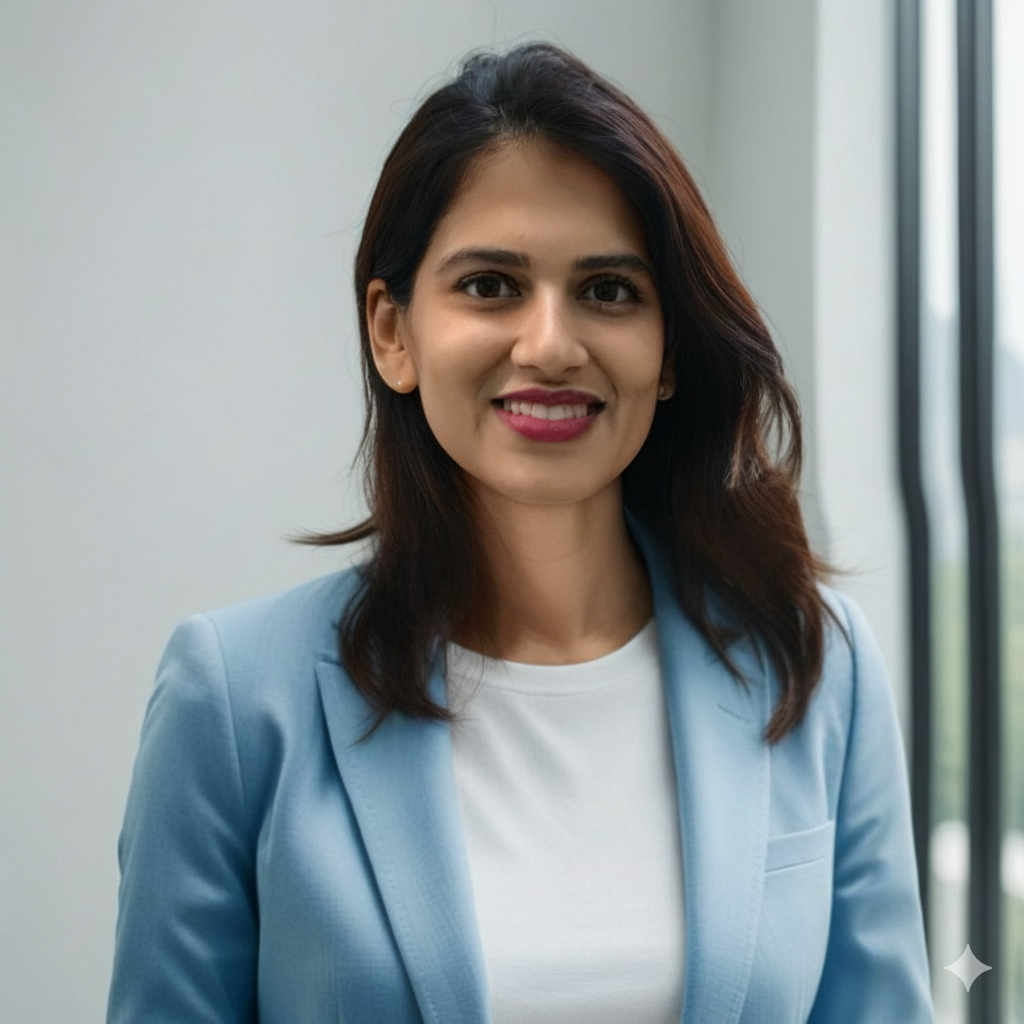
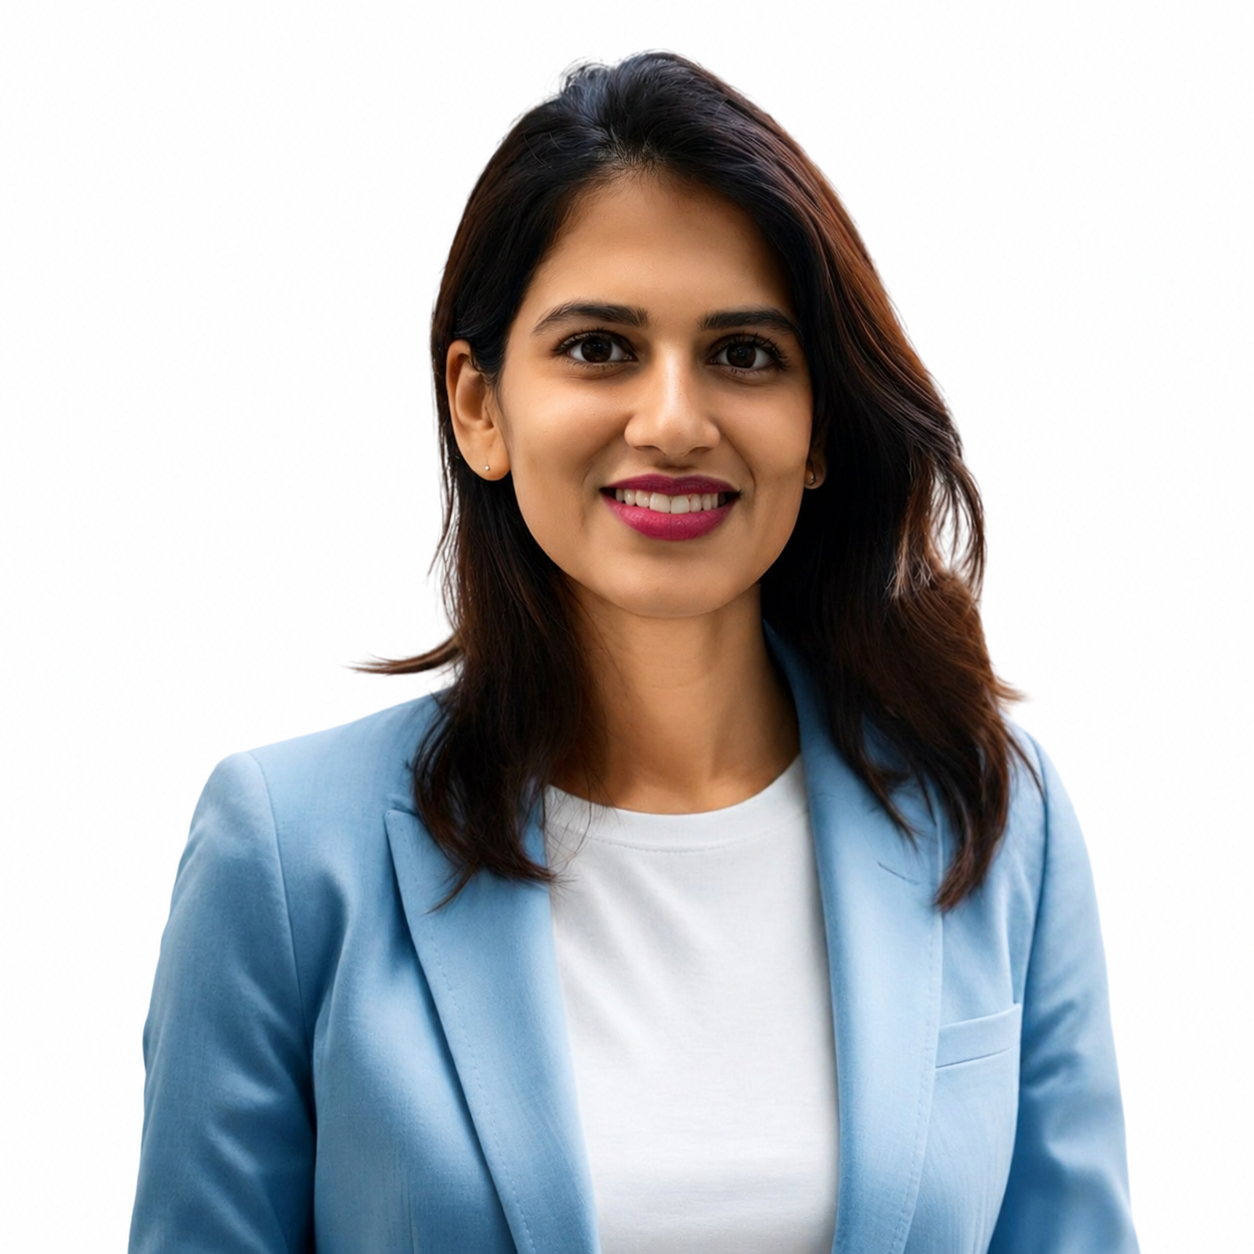
Changed gallery structure

diff --git a/src/pages/Gallery.jsx b/src/pages/Gallery.jsx
@@ -1,64 +1,11 @@
+import { Outlet } from "react-router-dom";
 import Heading from "../components/Heading";
-import LightGallery from "lightgallery/react";
-import "lightgallery/css/lightgallery.css";
-import "lightgallery/css/lg-zoom.css";
-import "lightgallery/css/lg-thumbnail.css";
-import lgThumbnail from "lightgallery/plugins/thumbnail";
-import lgZoom from "lightgallery/plugins/zoom";
-
-
-import img1 from "../assets/images/gallery/img1.jpeg"
-import img2 from "../assets/images/gallery/img2.JPG"
-import img3 from "../assets/images/gallery/img3.jpeg"
-import img4 from "../assets/images/gallery/img4.JPG"
-import img5 from "../assets/images/gallery/img5.jpeg"
-import img6 from "../assets/images/gallery/img6.JPG"
-import img7 from "../assets/images/gallery/img7.jpeg"
-import img8 from "../assets/images/gallery/img8.JPG"
-import img9 from "../assets/images/gallery/img9.jpeg"
-import img10 from "../assets/images/gallery/img10.JPG"
-import img11 from "../assets/images/gallery/img11.JPG"
-
-const images = [
-  { src: img1 },
-  { src: img2 },
-  { src: img3 },
-  { src: img4 },    
-  { src: img5 },
-  { src: img6 },
-  { src: img7 },
-  { src: img8 },
-  { src: img9 },
-  { src: img10 },
-  { src: img11 },
-]
 
 const Gallery = () => {
   return (
     <section>
       <Heading title="Gallery" path="/gallery" />
-      <div className="text-center px-4">
-        <h2 className="text-4xl font-bold text-[#8b1d1d] my-6 inline-block mx-auto border-b-4 border-[#8b1d1d] pb-3">
-          Ramdas Premier League
-        </h2>
-        <div className="p-[25px]">
-        <LightGallery
-          speed={500}
-          plugins={[lgThumbnail, lgZoom]}
-          getCaptionFromTitleOrAlt={false}
-          elementClassNames="grid  md:grid-cols-3 gap-2 md:gap-4"
-        >
-          {images.map((image, id) => (
-            <a href={image.src} key={id} className="group relative">
-              <img className="w-full h-[300px] object-cover" alt={`gallery-${id}`} src={image.src} loading="lazy" />
-              <div className="opacity-0 group-hover:opacity-100  flex items-center justify-center absolute inset-0 bg-[#0000009e] h-[40%] md:h-[25%] text-white text-[20px] transition-all duration-500">
-                Click Here
-              </div>
-            </a>
-          ))}
-        </LightGallery>
-      </div>
-      </div>
+     <Outlet />      
     </section>
   );
 };

diff --git a/src/pages/Rpl.jsx b/src/pages/Rpl.jsx
@@ -1,0 +1,53 @@
+import React from 'react'
+import LightGallery from "lightgallery/react";
+import "lightgallery/css/lightgallery.css";
+import "lightgallery/css/lg-zoom.css";
+import "lightgallery/css/lg-thumbnail.css";
+import lgThumbnail from "lightgallery/plugins/thumbnail";
+import lgZoom from "lightgallery/plugins/zoom";
+
+
+import img2 from "../assets/images/gallery/img2.JPG"
+import img4 from "../assets/images/gallery/img4.JPG"
+import img6 from "../assets/images/gallery/img6.JPG"
+import img8 from "../assets/images/gallery/img8.JPG"
+import img10 from "../assets/images/gallery/img10.JPG"
+import img11 from "../assets/images/gallery/img11.JPG"
+
+const images = [
+  { src: img2 },
+  { src: img4 },    
+  { src: img6 },
+  { src: img8 },
+  { src: img10 },
+  { src: img11 },
+]
+
+const Rpl = () => {
+  return (
+    <div className="text-center px-4">
+        <h2 className="text-4xl font-bold text-[#8b1d1d] my-6 inline-block mx-auto border-b-4 border-[#8b1d1d] pb-3">
+          RPL Cricket Tournament 2026
+        </h2>
+        <div className="p-[25px]">
+        <LightGallery
+          speed={500}
+          plugins={[lgThumbnail, lgZoom]}
+          getCaptionFromTitleOrAlt={false}
+          elementClassNames="grid  md:grid-cols-3 gap-2 md:gap-4"
+        >
+          {images.map((image, id) => (
+            <a href={image.src} key={id} className="group relative">
+              <img className="w-full h-[300px] object-cover" alt={`gallery-${id}`} src={image.src} loading="lazy" />
+              <div className="opacity-0 group-hover:opacity-100  flex items-center justify-center absolute inset-0 bg-[#0000009e] h-[40%] md:h-[25%] text-white text-[20px] transition-all duration-500">
+                Click Here
+              </div>
+            </a>
+          ))}
+        </LightGallery>
+      </div>
+      </div>
+  )
+}
+
+export default Rpl

diff --git a/src/pages/TreePlantation.jsx b/src/pages/TreePlantation.jsx
@@ -1,0 +1,51 @@
+import React from 'react'
+import LightGallery from "lightgallery/react";
+import "lightgallery/css/lightgallery.css";
+import "lightgallery/css/lg-zoom.css";
+import "lightgallery/css/lg-thumbnail.css";
+import lgThumbnail from "lightgallery/plugins/thumbnail";
+import lgZoom from "lightgallery/plugins/zoom";
+
+
+import img1 from "../assets/images/gallery/img1.jpeg"
+import img3 from "../assets/images/gallery/img3.jpeg"
+import img5 from "../assets/images/gallery/img5.jpeg"
+import img7 from "../assets/images/gallery/img7.jpeg"
+import img9 from "../assets/images/gallery/img9.jpeg"
+
+const images = [
+  { src: img1 },
+  { src: img3 },  
+  { src: img5 },
+  { src: img7 },
+  { src: img9 }
+]
+
+const TreePlantation = () => {
+  return (
+    <div className="text-center px-4">
+        <h2 className="text-4xl font-bold text-[#8b1d1d] my-6 inline-block mx-auto border-b-4 border-[#8b1d1d] pb-3">
+          Tree plantation & Warehouse opening (Nagpur)
+        </h2>
+        <div className="p-[25px]">
+        <LightGallery
+          speed={500}
+          plugins={[lgThumbnail, lgZoom]}
+          getCaptionFromTitleOrAlt={false}
+          elementClassNames="grid  md:grid-cols-3 gap-2 md:gap-4"
+        >
+          {images.map((image, id) => (
+            <a href={image.src} key={id} className="group relative">
+              <img className="w-full h-[300px] object-cover" alt={`gallery-${id}`} src={image.src} loading="lazy" />
+              <div className="opacity-0 group-hover:opacity-100  flex items-center justify-center absolute inset-0 bg-[#0000009e] h-[40%] md:h-[25%] text-white text-[20px] transition-all duration-500">
+                Click Here
+              </div>
+            </a>
+          ))}
+        </LightGallery>
+      </div>
+      </div>
+  )
+}
+
+export default TreePlantation

diff --git a/src/pages/GalleryTab.jsx b/src/pages/GalleryTab.jsx
@@ -1,0 +1,50 @@
+import { Link } from 'react-router-dom';
+import img3 from "../assets/images/gallery/img3.jpeg";
+import img8 from "../assets/images/gallery/img8.JPG";
+
+const GalleryTab = () => {
+  return (
+    <div className="flex justify-center gap-10 flex-wrap my-10">
+        <div className="text-center ">
+            <img
+              src={img3}
+              alt="tree plantation"
+              className="h-[300px] w-[400px] object-cover"
+            />
+
+          <p className="text-center my-3 font-bold">
+            Tree plantation & Warehouse opening (Nagpur)
+          </p>
+          <Link to={`/gallery/tree-plantation`}>
+            <button
+              className="px-5 py-3 bg-[#991b1b] text-white rounded-md hover:scale-105 cursorservices/-pointer
+                             transition-all duration-300 cursor-pointer"  
+            >
+              View More
+            </button>
+          </Link>
+        </div>
+        <div className="text-center ">
+            <img
+              src={img8}
+              alt="RPL Cricket Tournament 2026"
+              className="h-[300px] w-[400px] object-cover"
+            />
+
+          <p className="text-center my-3 font-bold">
+            RPL Cricket Tournament 2026
+          </p>
+          <Link to="/gallery/rpl">
+            <button
+              className="px-5 py-3 bg-[#991b1b] text-white rounded-md hover:scale-105 cursorservices/-pointer
+                             transition-all duration-300 cursor-pointer"
+            >
+              View More
+            </button>
+          </Link>
+        </div>
+      </div>
+  )
+}
+
+export default GalleryTab

diff --git a/src/App.jsx b/src/App.jsx
@@ -7,7 +7,6 @@ import Contact from "./pages/Contact";
 import Careers from "./pages/Careers";
 import Clientele from "./pages/Clientele";
 import Infrastructure from "./pages/Infrastructure";
-import Gallery from "./pages/Gallery";
 import CompanyOverview from "./pages/CompanyOverview";
 import Leadership from "./pages/Leadership";
 import VisionMission from "./pages/VisionMission";
@@ -15,6 +14,10 @@ import OurJourney from "./pages/OurJourney";
 import Awards from "./pages/Awards";
 import ServiceList from "./pages/ServicesList";
 import ScrollToTop from "./components/ScrollToTop";
+import Gallery from "./pages/Gallery";
+import GalleryTab from "./pages/GalleryTab";
+import Rpl from "./pages/Rpl";
+import TreePlantation from "./pages/TreePlantation";
 
 const cfaFeatures = {
   heading: "Carrying & Forwarding Agent Services",
@@ -214,7 +217,11 @@ function App() {
         <Route path="/services" element={<Services />} />
         <Route path="/clientele" element={<Clientele />} />
         <Route path="/infrastructure" element={<Infrastructure />} />
-        <Route path="/gallery" element={<Gallery />} />
+        <Route path="/gallery" element={<Gallery />} >
+          <Route index element={<GalleryTab />} />
+          <Route path="rpl" element={<Rpl />} />
+          <Route path="tree-plantation" element={<TreePlantation />} />
+        </Route>
         <Route path="/careers" element={<Careers />} />
         <Route path="/contact" element={<Contact />} />
         <Route path="/Carrying-&-Forwarding-Agent-Services" element={<ServiceList lists={cfaFeatures} />} />

diff --git a/src/pages/Leadership.jsx b/src/pages/Leadership.jsx
@@ -18,12 +18,12 @@ const team = [
   {
     image: narendra,
     name: "Narendra Khemani",
-    role: "(General Manager – Warehouse Operations)",
+    role: "General Manager - (Warehouse Operations)",
   },
   {
     image: priya,
     name: "Priya Sengunthar",
-    role: "(General Manager - Client Operations)",
+    role: "General Manager - (Client Operations)",
   },
 ];
 

diff --git a/src/pages/Clientele.jsx b/src/pages/Clientele.jsx
@@ -39,7 +39,7 @@ const Clientele = () => {
 
       <Swiper
         modules={[Autoplay, Pagination]}
-        autoplay={{ delay: 3000, disableOnInteraction: false }}
+        autoplay={{ delay: 1500, disableOnInteraction: false }}
         pagination={{ clickable: true, el: ".custom-pagination" }}
         loop
         slidesPerView={1}

diff --git a/src/components/Home/KeyMetrices.jsx b/src/components/Home/KeyMetrices.jsx
@@ -4,7 +4,7 @@ import { FaTruck, FaFileInvoice, FaBoxes, FaMapMarkerAlt } from "react-icons/fa"
 const metrics = [
   {
     icon: <FaTruck size={75} />,
-    target: 100000,
+    target: 130000,
     startFrom: 99900,
     suffix: "+",
     label: "Gross Volume Shippers Delivered per month",
